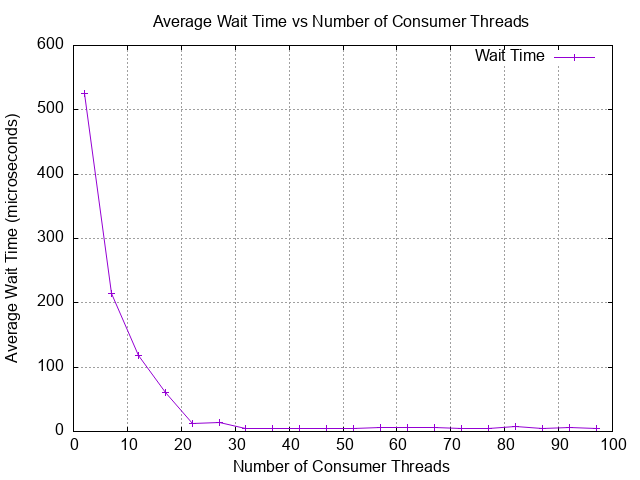
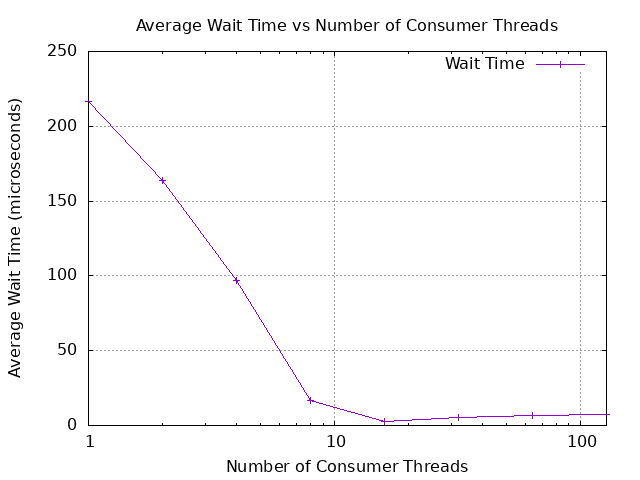
Refactor results handling: remove obsolete files, update Makefile, and enhance results script for improved testing and output

diff --git a/prod-cons.c b/prod-cons.c
@@ -14,8 +14,6 @@
  *	Revised	: 13 March 2025
  */
 
-// !Best performance with 250 consumers... While proccesor is 6 core 12 threads.
-
 #include <pthread.h>
 #include <stdio.h>
 #include <unistd.h>
@@ -25,7 +23,7 @@
 #include <sys/time.h>
 #include <time.h>
 
-#define QUEUESIZE 10
+#define QUEUESIZE 100
 #define LOOP 100000
 #define WORK 10
 
@@ -62,7 +60,7 @@ typedef struct
 
 queue *queueInit(void);
 void queueDelete(queue *q);
-void queueAdd(queue *q, struct workFunction in);
+void queueAdd(queue *q, struct queueItem in);
 void queueDel(queue *q, struct queueItem *out);
 
 // Statistics structure to tracschedulersk wait times
@@ -77,6 +75,7 @@ statistics *statsInit(void);
 void statsDelete(statistics *stats);
 void statsAdd(statistics *stats, long wait_time_usec);
 double statsGetAverage(statistics *stats);
+long total_time_us(struct timespec *start, struct timespec *end);
 
 typedef struct
 {
@@ -126,9 +125,9 @@ int main(int argc, char *argv[])
     exit(1);
   }
 
-  // Start timer 
-  struct timespec start, finish;
-  clock_gettime(CLOCK_MONOTONIC, &start);
+  // Start total timer 
+  // struct timespec start, finish;
+  // clock_gettime(CLOCK_MONOTONIC, &start);
 
   // Create the producer and consumer threads
   for (int i = 0; i < p; i++)
@@ -162,16 +161,10 @@ int main(int argc, char *argv[])
     pthread_join(con[i], NULL);
   }
 
-  // Stop timer
-  clock_gettime(CLOCK_MONOTONIC, &finish);
-
-  // Calculate the elapsed time
-  long elapsed_time_nsec = (finish.tv_sec - start.tv_sec) * 1000000000L +
-                           (finish.tv_nsec - start.tv_nsec);
-
-  // Convert to microseconds
-  long elapsed_time_ms = elapsed_time_nsec / 1000000;
-  printf("Elapsed time: %ld us\n", elapsed_time_ms);
+  // Stop total timer
+  // clock_gettime(CLOCK_MONOTONIC, &finish);
+  // long elapsed_time_us = total_time_us(&start, &finish);
+  // printf("Elapsed time: %ld us\n", elapsed_time_ms);
 
   // Print the average wait time
   double avg_wait_time = statsGetAverage(stats);
@@ -180,7 +173,7 @@ int main(int argc, char *argv[])
   queueDelete(fifo);
   statsDelete(stats);
 
-  printf("(full, empty): (%d, %d)\n", full, empty);
+  // printf("(full, empty): (%d, %d)\n", full, empty);
 
   return 0;
 }
@@ -210,6 +203,11 @@ void *producer(void *q)
 
     // *********************************************************
 
+    // Make an item with work and production timestamp to add to the queue
+    struct queueItem item;
+    item.wf = wf;
+    clock_gettime(CLOCK_MONOTONIC, &item.timestamp);
+
     pthread_mutex_lock(fifo->mut);
     while (fifo->full)
     {
@@ -218,7 +216,7 @@ void *producer(void *q)
       pthread_cond_wait(fifo->notFull, fifo->mut);
     }
 
-    queueAdd(fifo, wf);
+    queueAdd(fifo, item);
     pthread_mutex_unlock(fifo->mut);
     pthread_cond_signal(fifo->notEmpty);
   }
@@ -256,12 +254,8 @@ void *consumer(void *args)
     struct timespec dequeueTime;
     clock_gettime(CLOCK_MONOTONIC, &dequeueTime);
 
-    // Calculate wait time in nanoseconds
-    long wait_time_nsec = (dequeueTime.tv_sec - item.timestamp.tv_sec) * 1000000000L +
-                          (dequeueTime.tv_nsec - item.timestamp.tv_nsec);
+    long wait_time_usec = total_time_us(&item.timestamp, &dequeueTime);
 
-    // Convert to microseconds
-    long wait_time_usec = wait_time_nsec / 1000;
     statsAdd(stats, wait_time_usec);
     // printf("Consumer: Wait time: %ld us\n", wait_time_usec);
 
@@ -326,13 +320,9 @@ void queueDelete(queue *q)
   free(q);
 }
 
-void queueAdd(queue *q, struct workFunction in)
+void queueAdd(queue *q, struct queueItem in)
 {
-  struct queueItem item;
-  item.wf = in;
-  clock_gettime(CLOCK_MONOTONIC, &item.timestamp); // Use CLOCK_MONOTONIC for reliable timing
-
-  q->buf[q->tail] = item;
+  q->buf[q->tail] = in;
   q->tail++;
 
   if (q->tail == QUEUESIZE)
@@ -424,3 +414,8 @@ double statsGetAverage(statistics *stats)
   return avg;
 }
 
+long total_time_us(struct timespec *start, struct timespec *end)
+{
+  return (end->tv_sec - start->tv_sec) * 1000000L +
+         (end->tv_nsec - start->tv_nsec) / 1000L;
+}
